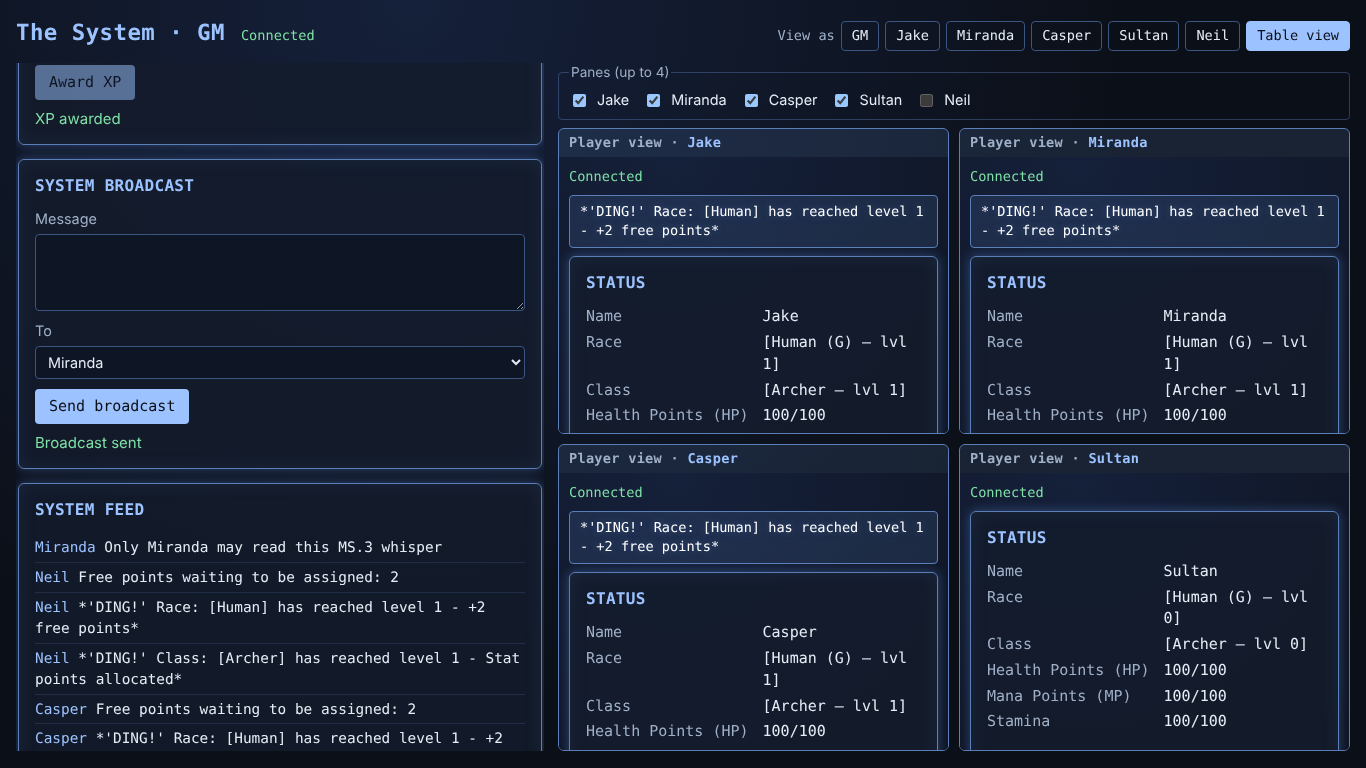
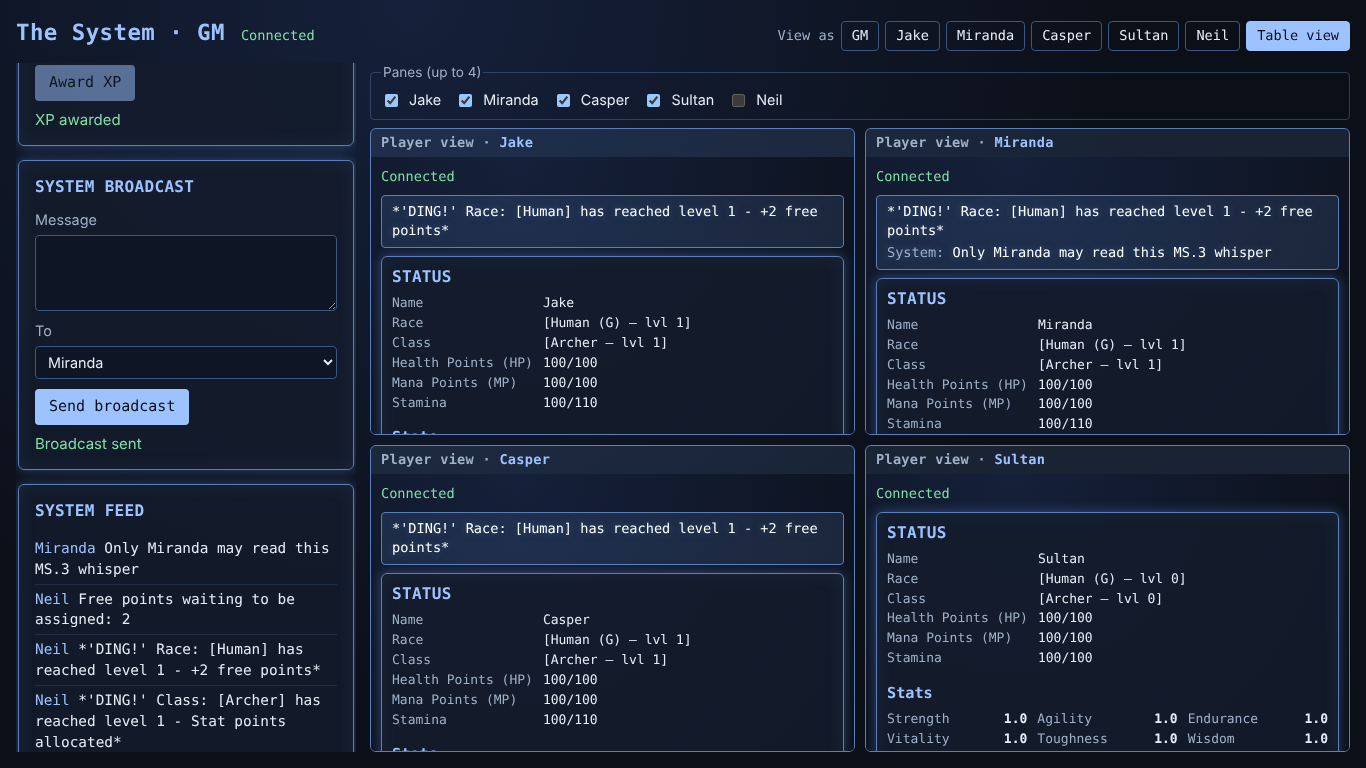
fix(MS.3): address review round 1 (compact panes with pinned DING and message, Table panes stay connected across switches, 1 s DING measured from the click, HTTP canary on pane frames, header-height-proof layout)
Claude-Session: https://claude.ai/code/session_01EH3wSXnASv7BtNqM8aQEyG

diff --git a/e2e/MS.3.spec.ts b/e2e/MS.3.spec.ts
@@ -32,6 +32,11 @@ interface Socket {
 function watch(page: Page) {
   const errors: string[] = [];
   const sockets: Socket[] = [];
+  const paneBodies: Promise<string>[] = [];
+  page.on('response', (res) => {
+    // Everything a pane frame (a player client) fetched over HTTP.
+    if (res.frame() !== page.mainFrame()) paneBodies.push(res.text().catch(() => ''));
+  });
   page.on('console', (msg) => {
     if (msg.type() === 'error') errors.push(msg.text());
   });
@@ -45,14 +50,15 @@ function watch(page: Page) {
     });
     ws.on('framereceived', (f) => socket.received.push(String(f.payload)));
   });
-  return { errors, sockets };
+  return { errors, sockets, paneBodies };
 }
 
-const pane = (gm: Page, name: string) => gm.frameLocator(`iframe[title="${name} (player view)"]`);
+const pane = (gm: Page, name: string) =>
+  gm.frameLocator(`iframe[title="${name} (player view)"]:visible`);
 
 test('the GM views the table as each player, live, with player-only data', async ({ browser }) => {
   const gm = await browser.newPage({ viewport: { width: 1366, height: 768 } });
-  const { errors, sockets } = watch(gm);
+  const { errors, sockets, paneBodies } = watch(gm);
   await gm.goto(`${server.url}/gm#key=${GM_KEY}`);
   await gm.getByLabel('Campaign name').fill('Tutorial: The Whale');
   await gm.getByRole('button', { name: 'Create campaign' }).click();
@@ -80,11 +86,11 @@ test('the GM views the table as each player, live, with player-only data', async
   // Back to GM: the console is there again.
   await bar.getByRole('button', { name: 'GM' }).click();
   await expect(gm.getByRole('heading', { name: 'Award class XP' })).toBeVisible();
-  await expect(gm.locator('iframe')).toHaveCount(0);
+  await expect(gm.locator('iframe:visible')).toHaveCount(0);
 
   // Table view: GM console plus the first four players, each a live player client.
   await bar.getByRole('button', { name: 'Table view' }).click();
-  await expect(gm.locator('iframe')).toHaveCount(4);
+  await expect(gm.locator('iframe:visible')).toHaveCount(4);
   for (const name of PARTY.slice(0, 4)) {
     await expect(pane(gm, name).getByTestId('name')).toHaveText(name);
     await expect(pane(gm, name).getByTestId('connection')).toHaveText('Connected');
@@ -94,7 +100,7 @@ test('the GM views the table as each player, live, with player-only data', async
   await expect(picker.getByLabel('Neil')).toBeDisabled();
   await picker.getByLabel('Casper').uncheck();
   await picker.getByLabel('Neil').check();
-  await expect(gm.locator('iframe')).toHaveCount(4);
+  await expect(gm.locator('iframe:visible')).toHaveCount(4);
   await expect(pane(gm, 'Neil').getByTestId('name')).toHaveText('Neil');
   await expect(gm.locator('iframe[title="Casper (player view)"]')).toHaveCount(0);
   await picker.getByLabel('Neil').uncheck();
@@ -107,15 +113,20 @@ test('the GM views the table as each player, live, with player-only data', async
   await gm.getByRole('checkbox', { name: 'Sultan' }).first().uncheck();
   await gm.getByLabel('Amount').fill('404');
   await gm.getByLabel('Reason (GM only)').fill(REASON);
+  const ding = "*'DING!' Class: [Archer] has reached level 1 - Stat points allocated*";
+  const raceDing = "*'DING!' Race: [Human] has reached level 1 - +2 free points*";
   const sent = Date.now();
   await gm.getByRole('button', { name: 'Award XP' }).click();
-  const ding = "*'DING!' Class: [Archer] has reached level 1 - Stat points allocated*";
   await Promise.all(
     ['Jake', 'Miranda', 'Casper'].map((name) =>
       expect(pane(gm, name).getByTestId('dings')).toContainText(ding, { timeout: 1000 }),
     ),
   );
-  expect(Date.now() - sent).toBeLessThan(1500);
+  // Measured from before the click: all three panes had the DING within 1 s.
+  expect(Date.now() - sent).toBeLessThanOrEqual(1000);
+  for (const name of ['Jake', 'Miranda', 'Casper']) {
+    await expect(pane(gm, name).getByTestId('dings')).toContainText(raceDing);
+  }
   for (const name of ['Jake', 'Miranda', 'Casper']) {
     // Small panes pin the newest DING above the sheet, in view without scrolling.
     await expect(pane(gm, name).getByTestId('latest-ding')).toBeInViewport();
@@ -130,8 +141,20 @@ test('the GM views the table as each player, live, with player-only data', async
   await gm.getByLabel('Recipients').selectOption({ label: 'Miranda' });
   await gm.getByRole('button', { name: 'Send broadcast' }).click();
   await expect(pane(gm, 'Miranda').getByTestId('messages')).toHaveText(WHISPER);
+  await expect(pane(gm, 'Miranda').getByTestId('latest-message')).toBeInViewport();
+  await expect(pane(gm, 'Miranda').getByTestId('latest-message')).toContainText(WHISPER);
   await expect(pane(gm, 'Jake').getByTestId('messages')).toHaveCount(0);
   await gm.screenshot({ path: path.join(shots, 'table-view-1366x768.png') });
+
+  // Switching away and back keeps the Table panes connected with their history.
+  await bar.getByRole('button', { name: 'Jake' }).click();
+  await expect(pane(gm, 'Jake').getByTestId('dings')).toContainText(ding);
+  await bar.getByRole('button', { name: 'Table view' }).click();
+  await expect(gm.locator('iframe:visible')).toHaveCount(4);
+  for (const name of ['Jake', 'Miranda', 'Casper']) {
+    await expect(pane(gm, name).getByTestId('dings').getByRole('listitem')).toHaveCount(2);
+    await expect(pane(gm, name).getByTestId('connection')).toHaveText('Connected');
+  }
 
   // Canary on every pane: each player socket joined without the GM key and never
   // received GM-only data, full campaign state, or another player's whisper.
@@ -154,6 +177,14 @@ test('the GM views the table as each player, live, with player-only data', async
     expect(all).not.toContain(REASON);
     expect(all).not.toContain('"type":"state"');
     if (socket.join?.['characterId'] !== idOf('Miranda')) expect(all).not.toContain(WHISPER);
+  }
+  // …and no HTTP response any pane frame loaded carried GM-only data either.
+  const bodies = await Promise.all(paneBodies);
+  expect(bodies.length).toBeGreaterThan(0);
+  for (const body of bodies) {
+    expect(body).not.toContain(GM_KEY);
+    expect(body).not.toContain(REASON);
+    expect(body).not.toContain(WHISPER);
   }
   expect(errors).toEqual([]);
   await gm.close();

diff --git a/apps/web/src/styles.css b/apps/web/src/styles.css
@@ -307,7 +307,6 @@ a {
   display: grid;
   grid-template-columns: minmax(360px, 2fr) minmax(0, 3fr);
   gap: 14px;
-  height: calc(100vh - 80px);
 }
 .perspective-table .gm-pane {
   overflow: auto;
@@ -365,7 +364,8 @@ a {
   background: var(--bg);
 }
 .single-pane {
-  height: calc(100vh - 80px);
+  flex: 1;
+  min-height: 0;
   display: flex;
   flex-direction: column;
 }
@@ -390,7 +390,7 @@ a {
 }
 .pane-latest {
   margin: 0 0 8px;
-  padding: 6px 10px;
+  padding: 4px 10px;
   font-family: var(--mono);
   font-size: 0.85rem;
   color: #fff;
@@ -398,4 +398,63 @@ a {
   border: 1px solid var(--border);
   border-radius: 4px;
   background: rgba(90, 127, 184, 0.18);
+}
+.pane-latest p {
+  margin: 2px 0;
+}
+/* Compact chrome so a quarter-screen pane shows as much of the sheet as it can. */
+.player.pane-mode {
+  font-size: 13px;
+}
+.pane-mode .window {
+  padding: 8px 10px;
+}
+.pane-mode h2 {
+  margin-bottom: 6px;
+}
+.pane-mode .rows {
+  gap: 1px 10px;
+}
+.pane-mode .stats {
+  grid-template-columns: repeat(auto-fill, minmax(120px, 1fr));
+  gap: 1px 10px;
+}
+.pane-mode .player-grid,
+.pane-mode .feeds {
+  gap: 8px;
+}
+.perspective-table .perspective-body {
+  grid-template-columns: minmax(340px, 1fr) minmax(0, 3fr);
+}
+.table-side {
+  display: flex;
+  flex-direction: column;
+  min-height: 0;
+}
+.table-side[hidden] {
+  display: none;
+}
+.table-side .table-panes {
+  flex: 1;
+}
+/* Character and Table views fill the window below the header, however tall it wraps. */
+.gm.perspective-table,
+.gm.perspective-character {
+  height: 100vh;
+  display: flex;
+  flex-direction: column;
+}
+.perspective-table .perspective-body,
+.perspective-character .perspective-body {
+  flex: 1;
+  min-height: 0;
+}
+.perspective-character .perspective-body {
+  display: flex;
+  flex-direction: column;
+}
+@media (max-width: 900px) {
+  .gm.perspective-table {
+    height: auto;
+  }
 }

diff --git a/apps/web/src/player/PlayerScreen.tsx b/apps/web/src/player/PlayerScreen.tsx
@@ -79,7 +79,7 @@ export function PlayerScreen({ characterId }: { characterId: string }) {
           </a>
         )}
       </header>
-      {pane && <LatestDing live={live} />}
+      {pane && <PaneLatest live={live} view={view} />}
       {(live.status === 'refused' || live.error) && (
         <p className="err" role="alert">
           {live.error}
@@ -215,15 +215,21 @@ function Feed({ live, view }: { live: LiveSnapshot; view: PlayerView }) {
 }
 
 /**
- * Pane mode only: the newest DING pinned above the sheet, so the GM sees it
- * land in a small Table-view pane without scrolling to the feed.
+ * Pane mode only: the newest DING and System message pinned above the sheet,
+ * so the GM sees them land in a small Table-view pane without scrolling.
  */
-function LatestDing({ live }: { live: LiveSnapshot }) {
+function PaneLatest({ live, view }: { live: LiveSnapshot; view: PlayerView | null }) {
   const latest = live.notifications.filter((n) => n.notification.kind === 'level').at(-1);
-  if (!latest) return null;
+  const message = view?.messages.at(-1);
+  if (!latest && !message) return null;
   return (
-    <p className="pane-latest" data-testid="latest-ding" aria-live="polite">
-      {notificationText(latest.notification)}
-    </p>
+    <div className="pane-latest" aria-live="polite">
+      {latest && <p data-testid="latest-ding">{notificationText(latest.notification)}</p>}
+      {message && (
+        <p data-testid="latest-message">
+          <span className="muted">System:</span> {message.text}
+        </p>
+      )}
+    </div>
   );
 }

diff --git a/apps/web/src/gm/GmScreen.tsx b/apps/web/src/gm/GmScreen.tsx
@@ -68,8 +68,11 @@ function GmConsole({ client }: { client: LiveClient }) {
   const state = live.state;
   const [wanted, setWanted] = useState<Perspective>({ kind: 'gm' });
   const [picked, setPicked] = useState<string[] | null>(null);
+  // Once opened, Table view's panes stay connected (hidden) across switches.
+  const [tableOpened, setTableOpened] = useState(false);
   const party = useMemo(() => partyOf(state), [state]);
   const view = resolvePerspective(wanted, party);
+  if (view.kind === 'table' && !tableOpened) setTableOpened(true);
   const viewed =
     view.kind === 'character' ? party.find((m) => m.id === view.characterId) : undefined;
 

diff --git a/apps/web/src/gm/ViewAs.tsx b/apps/web/src/gm/ViewAs.tsx
@@ -50,6 +50,11 @@ export function PerspectiveBar({
 /**
  * One player's screen as a real player client: a frame on the ordinary player
  * page, which joins without the GM key and receives only that player's view.
+ * The frame is same-origin (a sandboxed opaque origin would fail the server's
+ * WebSocket Origin check), so it could technically reach this tab's
+ * sessionStorage and `window.parent`; only our own player bundle runs there and
+ * it never reads either. Never render GM- or player-authored HTML in player
+ * screens without sanitising it.
  */
 export function PlayerPane({ member }: { member: PartyMember }) {
   return (
